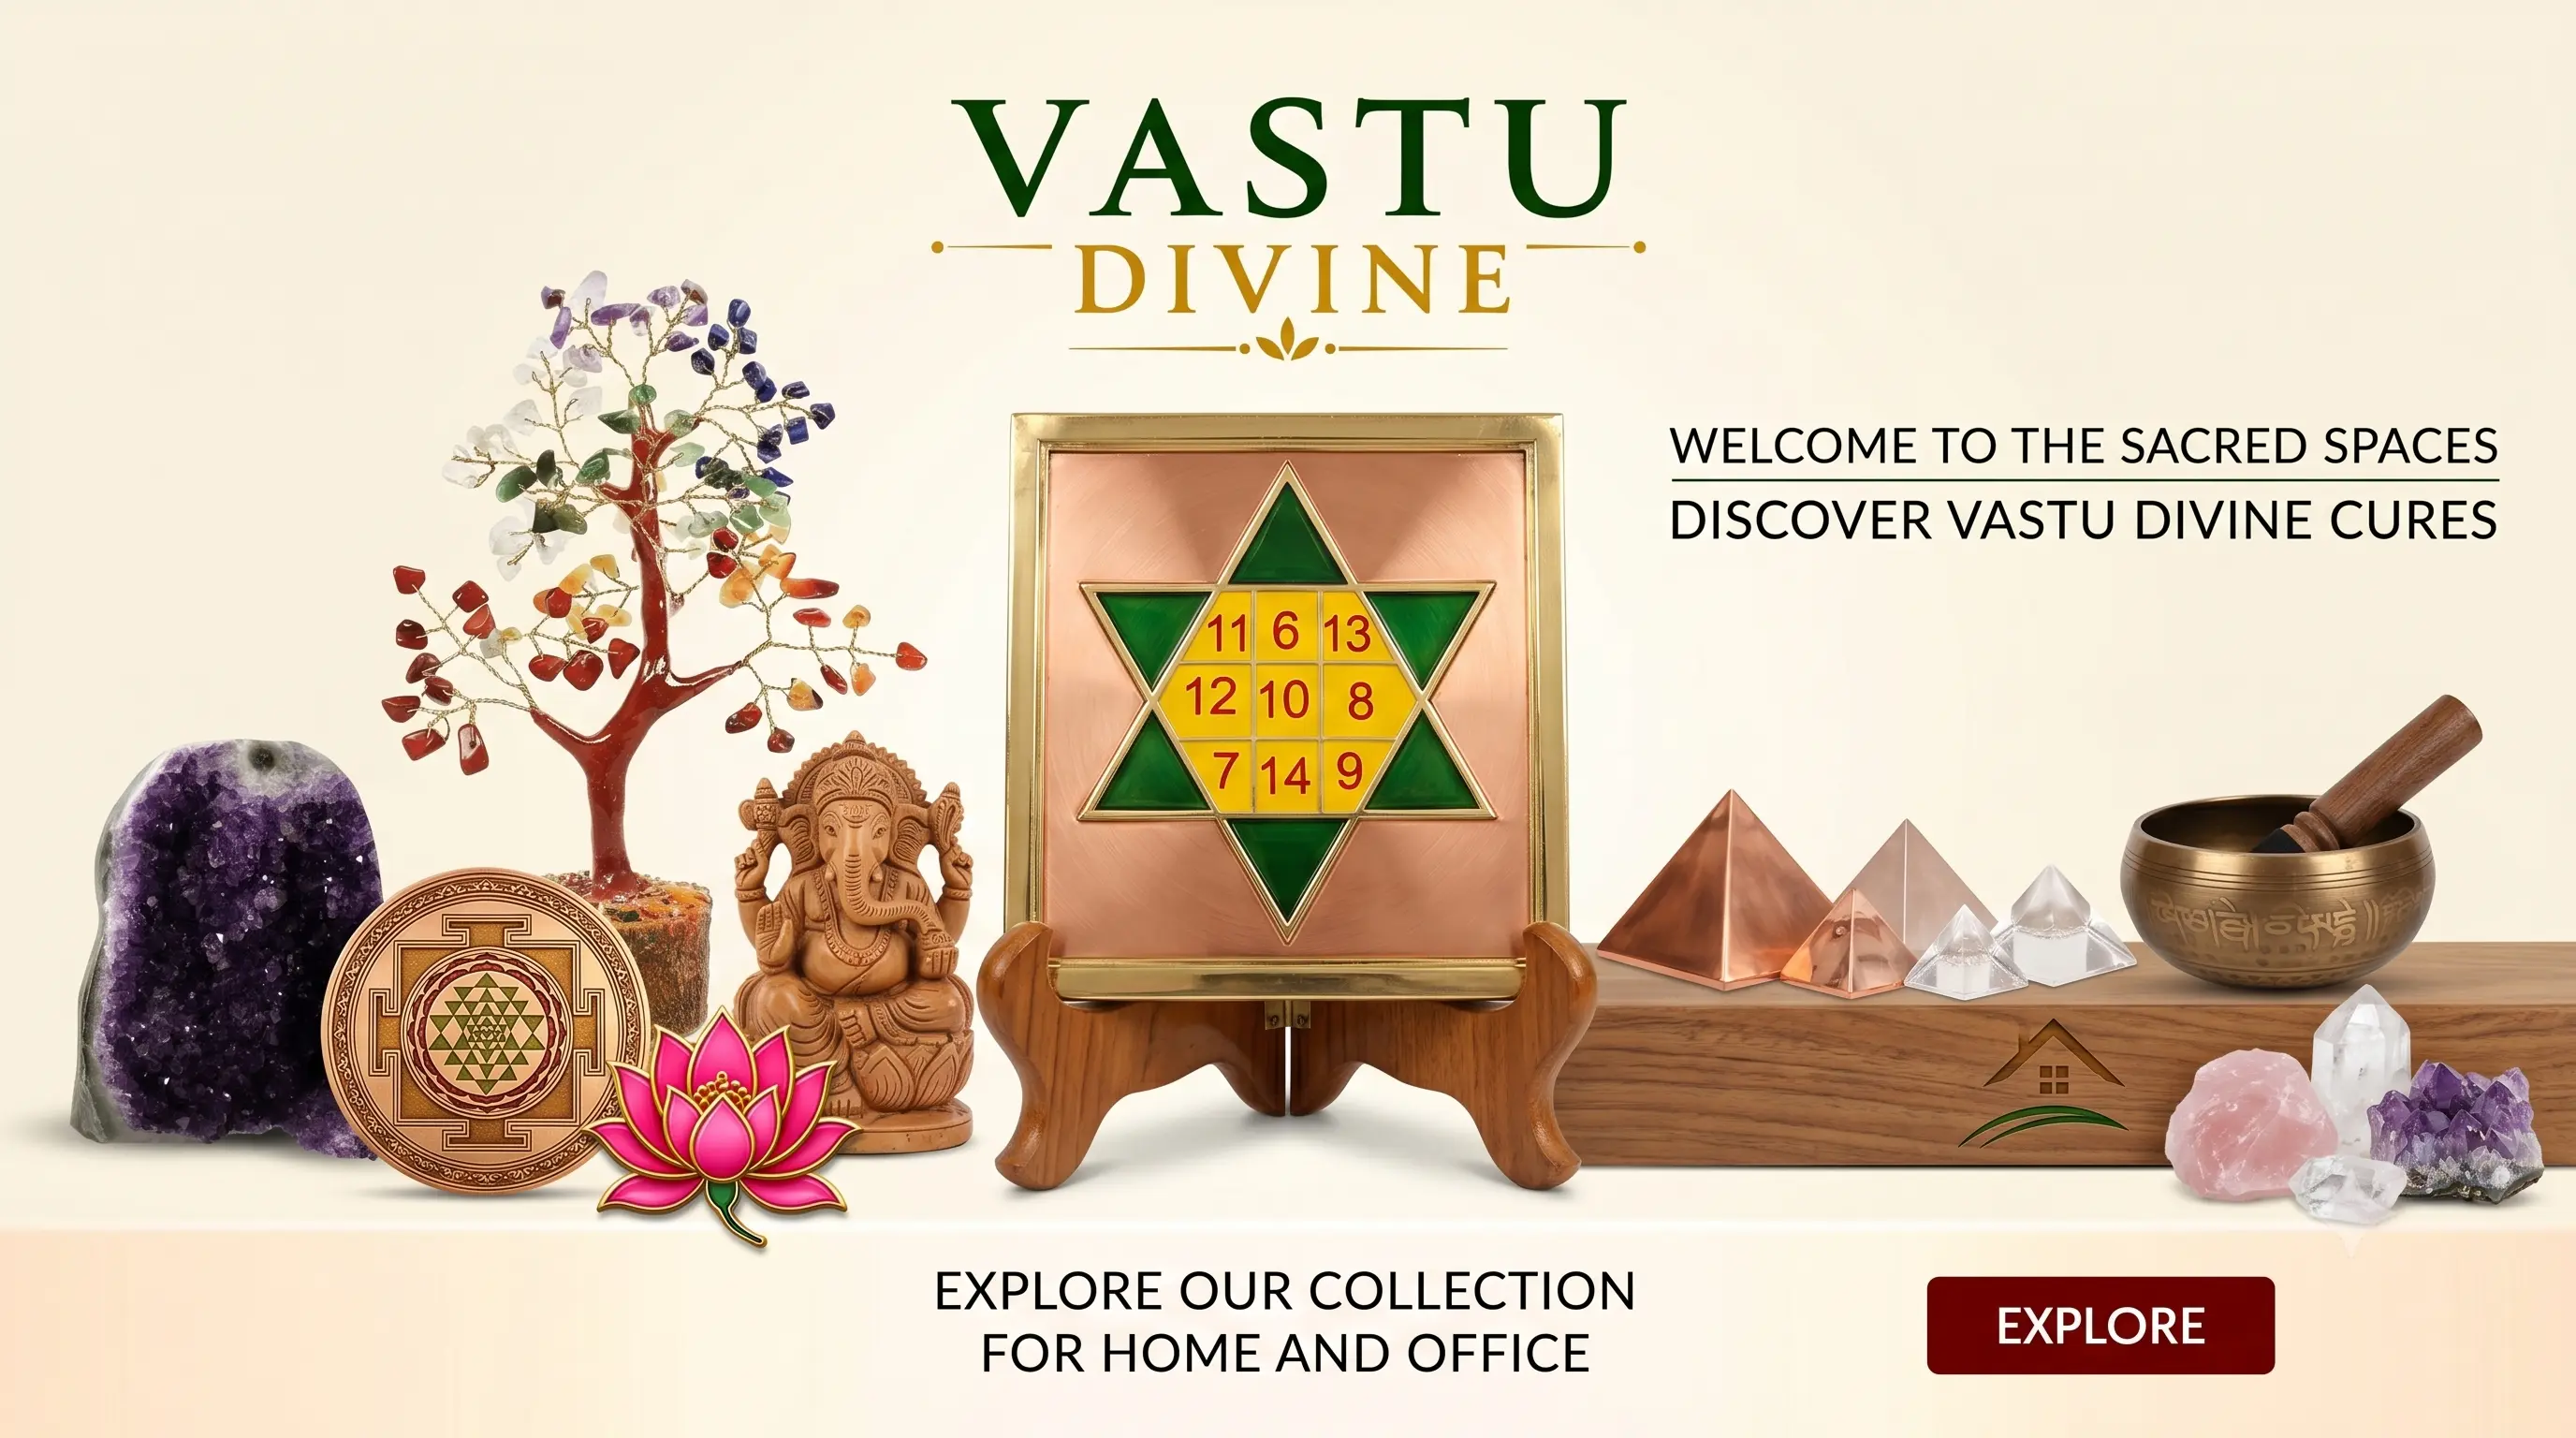
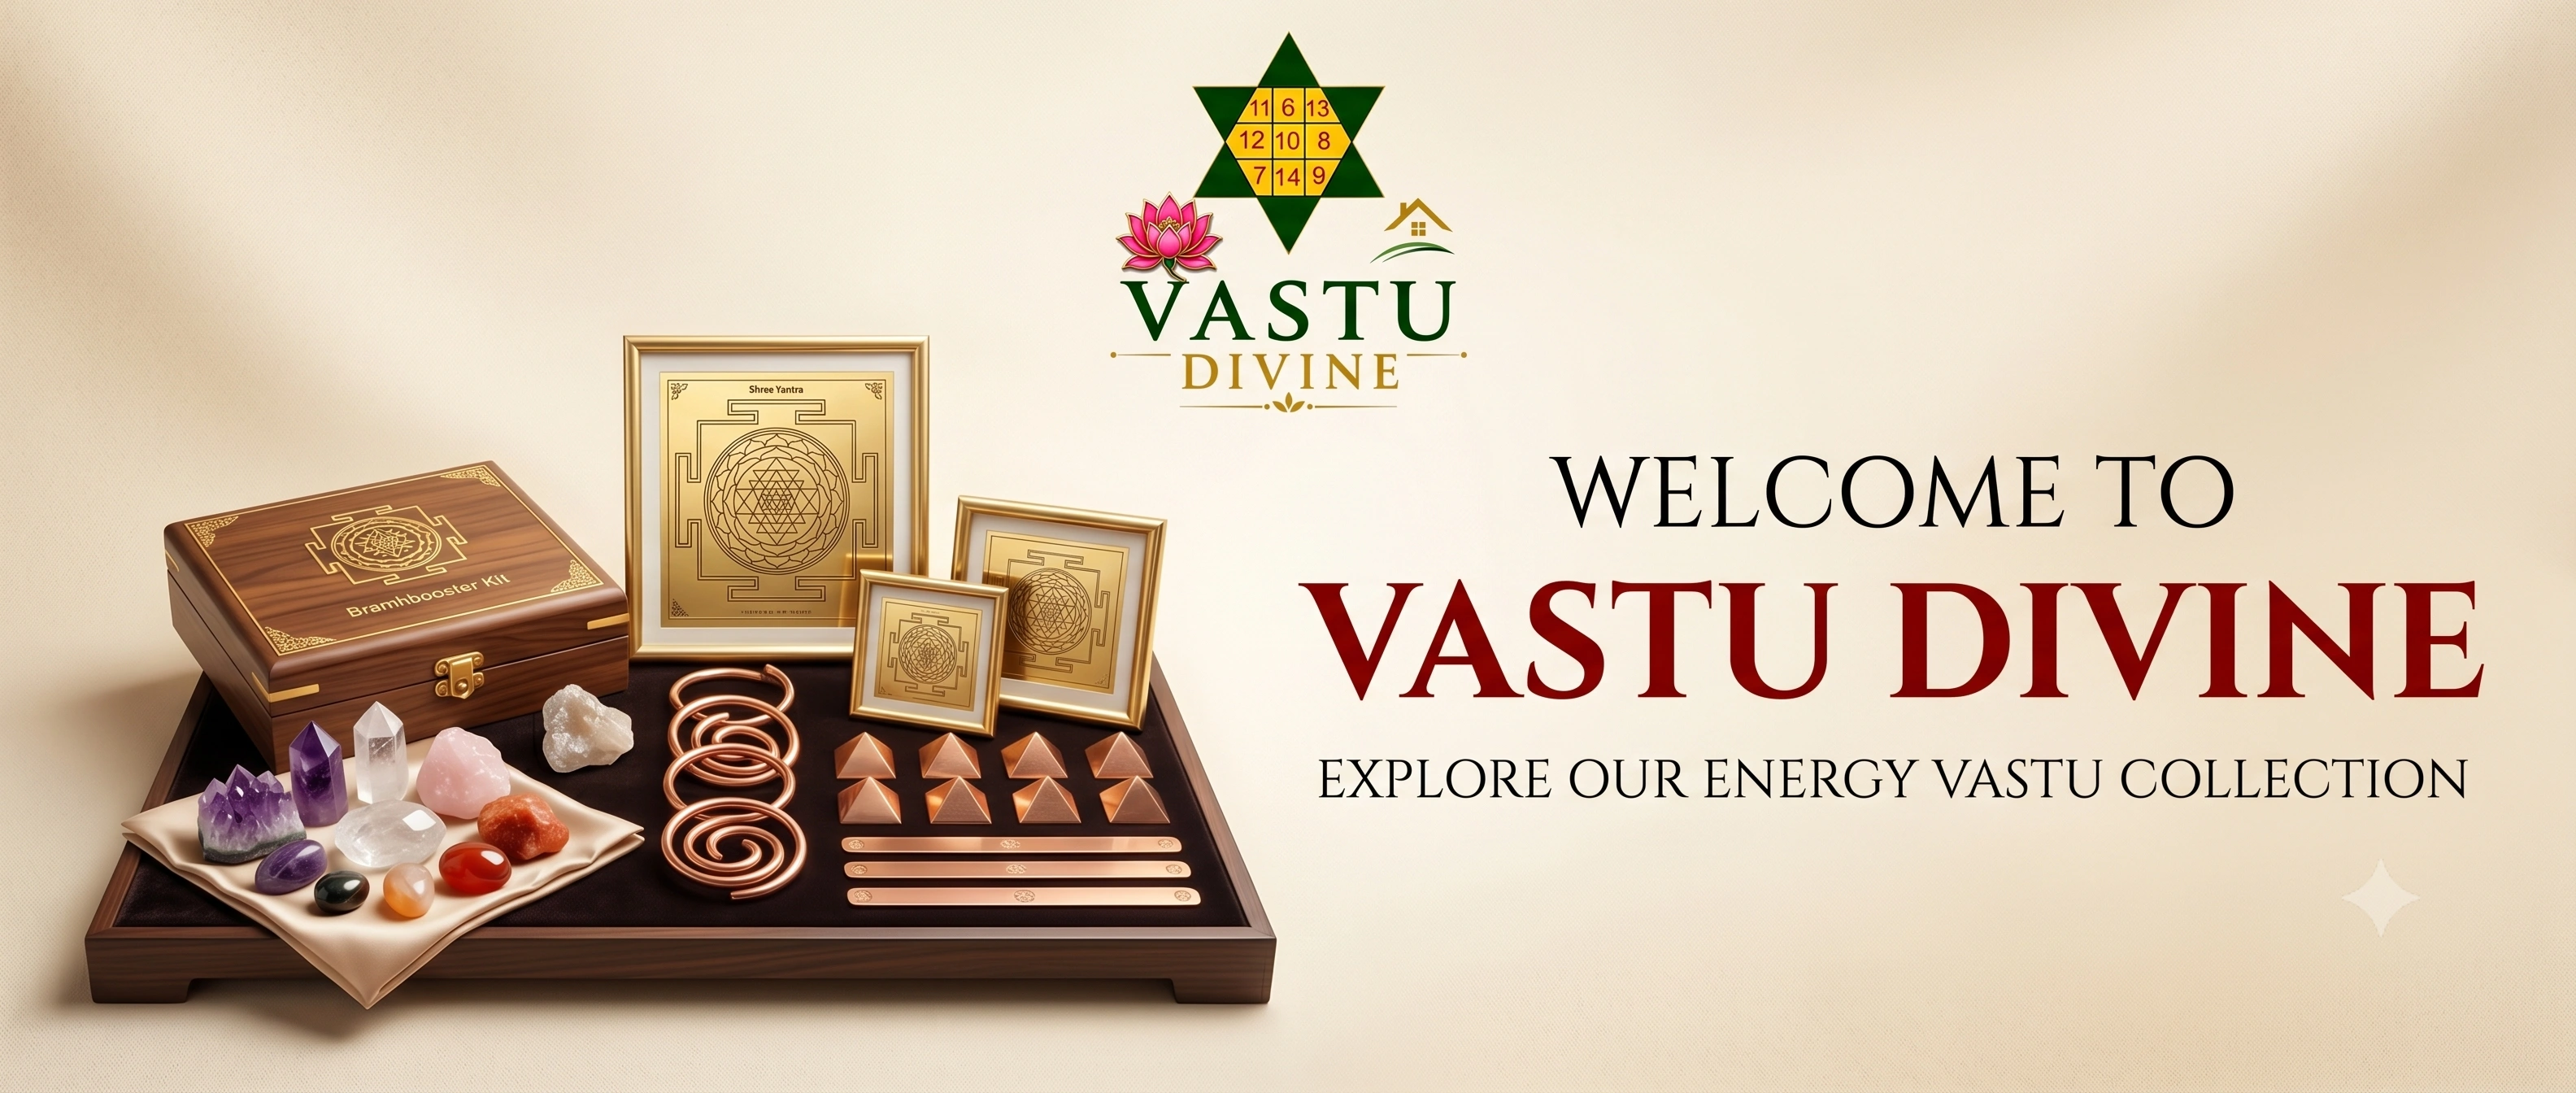
updated searchbar responsive

diff --git a/src/components/common/SearchBar.module.css b/src/components/common/SearchBar.module.css
@@ -7,12 +7,13 @@
   display: flex;
   align-items: flex-start;
   justify-content: center;
-  padding: 100px 20px 20px;
+  padding: 80px 16px 16px;
+  overflow-y: auto;
 }
 
 .modal {
   width: 100%;
-  max-width: 640px;
+  max-width: 680px;
   background: var(--white);
   border-radius: 24px;
   padding: 28px;
@@ -24,14 +25,15 @@
   display: flex;
   justify-content: space-between;
   align-items: center;
+  gap: 12px;
   margin-bottom: 20px;
 }
 
 .searchHead h3 {
+  margin: 0;
   font-family: var(--font-secondary);
   font-size: 1.35rem;
   color: var(--dark);
-  margin: 0;
 }
 
 .searchHead button {
@@ -45,7 +47,8 @@
   align-items: center;
   justify-content: center;
   color: var(--dark);
-  transition: background 0.2s;
+  flex-shrink: 0;
+  transition: all 0.25s ease;
 }
 
 .searchHead button:hover {
@@ -60,7 +63,7 @@
   background: var(--cream);
   border-radius: 16px;
   border: 2px solid transparent;
-  transition: border-color 0.2s;
+  transition: border-color 0.25s ease;
 }
 
 .inputWrap:focus-within {
@@ -73,20 +76,28 @@
 }
 
 .inputWrap input {
-  flex: 1;
+  width: 100%;
   border: none;
-  background: none;
+  background: transparent;
   outline: none;
-  font-size: 1.05rem;
+  font-size: 1rem;
   color: var(--dark);
+}
+
+.inputWrap input::placeholder {
+  color: #999;
 }
 
 .results {
   list-style: none;
   margin: 20px 0 0;
   padding: 0;
-  max-height: 360px;
+  max-height: 380px;
   overflow-y: auto;
+}
+
+.results li:not(:last-child) {
+  margin-bottom: 6px;
 }
 
 .results li button {
@@ -95,12 +106,12 @@
   align-items: center;
   gap: 14px;
   padding: 14px;
-  background: none;
+  background: transparent;
   border: none;
   border-radius: 14px;
   cursor: pointer;
   text-align: left;
-  transition: background 0.2s;
+  transition: all 0.25s ease;
 }
 
 .results li button:hover {
@@ -119,7 +130,8 @@
   display: block;
   font-size: 0.95rem;
   color: var(--dark);
-  margin-bottom: 2px;
+  margin-bottom: 4px;
+  line-height: 1.4;
 }
 
 .results span {
@@ -131,7 +143,8 @@
   margin-left: auto;
   color: var(--gold);
   opacity: 0;
-  transition: opacity 0.2s;
+  flex-shrink: 0;
+  transition: opacity 0.25s ease;
 }
 
 .results li button:hover .resultArrow {
@@ -158,9 +171,138 @@
   border-radius: 14px;
   font-weight: 600;
   cursor: pointer;
-  transition: background 0.2s;
+  transition: all 0.25s ease;
 }
 
 .viewAll:hover {
   background: var(--gold);
+}
+
+/* ==========================
+   TABLET
+========================== */
+
+@media (max-width: 768px) {
+  .overlay {
+    padding: 70px 12px 12px;
+  }
+
+  .modal {
+    padding: 22px;
+    border-radius: 20px;
+  }
+
+  .searchHead h3 {
+    font-size: 1.2rem;
+  }
+
+  .inputWrap {
+    padding: 14px 16px;
+  }
+
+  .results {
+    max-height: 320px;
+  }
+
+  .thumb {
+    width: 50px;
+    height: 50px;
+  }
+}
+
+/* ==========================
+   MOBILE
+========================== */
+
+@media (max-width: 576px) {
+  .overlay {
+    align-items: flex-start;
+    padding: 60px 10px 10px;
+  }
+
+  .modal {
+    padding: 18px;
+    border-radius: 18px;
+  }
+
+  .searchHead {
+    margin-bottom: 16px;
+  }
+
+  .searchHead h3 {
+    font-size: 1.05rem;
+  }
+
+  .searchHead button {
+    width: 36px;
+    height: 36px;
+  }
+
+  .inputWrap {
+    padding: 12px 14px;
+    gap: 10px;
+  }
+
+  .inputWrap input {
+    font-size: 0.95rem;
+  }
+
+  .results {
+    max-height: 280px;
+  }
+
+  .results li button {
+    padding: 12px;
+    gap: 10px;
+  }
+
+  .thumb {
+    width: 44px;
+    height: 44px;
+    border-radius: 10px;
+  }
+
+  .results strong {
+    font-size: 0.88rem;
+  }
+
+  .results span {
+    font-size: 0.75rem;
+  }
+
+  .resultArrow {
+    opacity: 1;
+  }
+
+  .viewAll {
+    padding: 12px;
+    font-size: 0.9rem;
+  }
+}
+
+/* ==========================
+   SMALL PHONES
+========================== */
+
+@media (max-width: 360px) {
+  .modal {
+    padding: 14px;
+  }
+
+  .searchHead h3 {
+    font-size: 0.95rem;
+  }
+
+  .thumb {
+    width: 40px;
+    height: 40px;
+  }
+
+  .results strong {
+    font-size: 0.82rem;
+  }
+
+  .results span {
+    font-size: 0.7rem;
+  }
 }

diff --git a/src/components/common/SearchBar.jsx b/src/components/common/SearchBar.jsx
@@ -36,7 +36,19 @@ const SearchBar = ({ isOpen, onClose }) => {
     navigate(`/shop?search=${encodeURIComponent(query)}`);
     onClose();
   };
+useEffect(() => {
+  const handleKeyDown = (e) => {
+    if (e.key === 'Escape') {
+      onClose();
+    }
+  };
 
+  window.addEventListener('keydown', handleKeyDown);
+
+  return () => {
+    window.removeEventListener('keydown', handleKeyDown);
+  };
+}, [onClose]);
   return (
     <AnimatePresence>
       {isOpen && (
@@ -64,12 +76,13 @@ const SearchBar = ({ isOpen, onClose }) => {
             <div className={styles.inputWrap}>
               <FiSearch size={22} />
               <input
-                ref={inputRef}
-                type="search"
-                placeholder="Crystals, rudraksha, vastu, bracelets..."
-                value={query}
-                onChange={(e) => setQuery(e.target.value)}
-              />
+  ref={inputRef}
+  type="search"
+  placeholder="Search products..."
+  value={query}
+  onChange={(e) => setQuery(e.target.value)}
+  autoComplete="off"
+/>
             </div>
             {results.length > 0 && (
               <ul className={styles.results}>

diff --git a/src/components/home/HeroSection.jsx b/src/components/home/HeroSection.jsx
@@ -12,17 +12,22 @@ const slides = [
   {
     id: 1,
     image: "/images/slide1.webp",
-    category: "/category/crystals",
+    category: "/vastu",
   },
   {
     id: 2,
-    image: "/images/slide1.webp",
-    category: "/category/pyramids",
+    image: "/images/slide2.webp",
+    category: "/energyvastu",
   },
   {
     id: 3,
-    image: "/images/slide1.webp",
-    category: "/category/vastu-remedies",
+    image: "/images/slide3.webp",
+    category: "/gemstones",
+  },
+  {
+    id: 4,
+    image: "/images/slide4.webp",
+    category: "/yantra",
   },
 ];
 